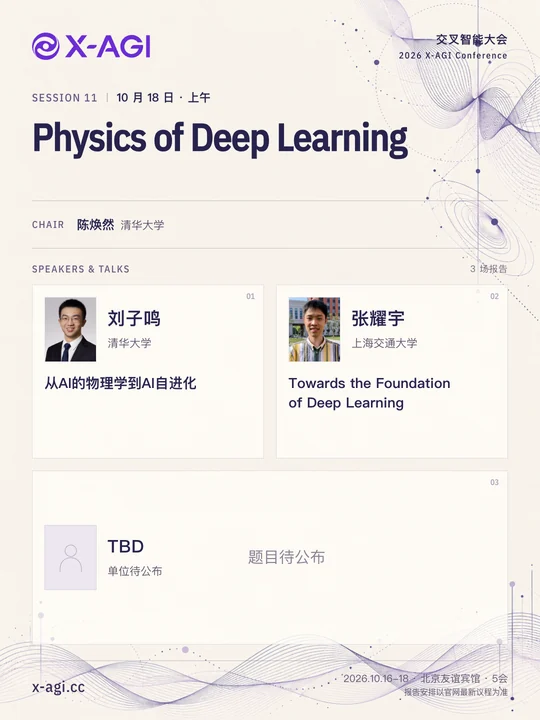
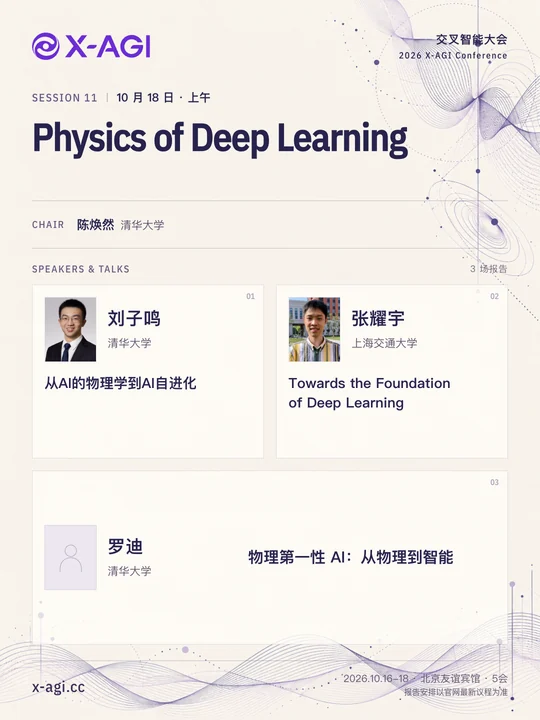
Add Luo Di talk, biography, abstract, and session poster

Changed region(s): [[0.4444, 0.7639, 0.8593, 0.7944], [0.2074, 0.7333, 0.2963, 0.825]]

diff --git a/src/data/conference2026-people.confirmed.ts b/src/data/conference2026-people.confirmed.ts
@@ -3,6 +3,21 @@ import type { Conference2026PersonSourceRecord } from './conference2026-people.g
 // Organizer-confirmed profiles and biography updates through 2026-10-09.
 // Keep this supplied copy separate from the attendee workbook snapshot.
 export const conference2026ConfirmedPeople: readonly Conference2026PersonSourceRecord[] = [
+  // Biography: https://baike.weixin.qq.com/v10001659227.htm
+  // Title and editorial abstract: organizer-supplied slide.pdf, 2026-10-16.
+  {
+    id: 'luo-di',
+    name: '罗迪',
+    aliases: ['Di Luo'],
+    roles: ['speaker'],
+    affiliation: '清华大学',
+    department: '物理系、高等研究院',
+    bio: '罗迪（Di Luo），清华大学物理系副教授、清华大学高等研究院双聘研究员，智源青年学者。曾任麻省理工学院与哈佛大学博士后、美国人工智能与基本相互作用研究所（IAIFI）Fellow，以及加州大学洛杉矶分校助理教授。他的研究聚焦人工智能与量子物理的交叉领域，既利用神经网络研究量子多体系统，也以量子理论和统计物理启发人工智能模型设计。他提出“物理第一性 AI”研究范式，探索从物理学基本原理出发理解和构建人工智能系统，并入选2025年度《麻省理工科技评论》中国区“35岁以下科技创新35人”。',
+    talkTitle: '物理第一性 AI：从物理到智能',
+    abstract: '物理规律不仅为人工智能提供应用场景，也能为模型结构、表征能力与学习机制提供设计依据。本报告围绕“物理第一性 AI”，探讨物理与人工智能的双向启发。首先，从神经网络量子态出发，介绍如何将费米反对称性与规范对称性融入网络结构，以表征和模拟复杂量子系统。其次，从自由能视角引入沃尔什度，刻画函数中不同阶数的变量交互，讨论其与多层感知机（MLP）的宽度和深度、限制玻尔兹曼机（RBM）的隐藏单元数和连接度之间的关系，以及基底选择对量子态表征的影响。最后，介绍量子理论对人工智能的启发，包括用于大语言模型高效高秩微调的量子启发张量适配（QuanTA）、语言模型的信息结构与互信息标度，以及从物理过程构建生成模型的思路。报告将据此讨论如何把物理中的对称性、复杂度与信息结构转化为人工智能模型的设计原则。',
+    hasSubmittedPortrait: false,
+    sourceOrder: -1,
+  },
   {
     id: 'liu-huabin',
     name: '刘华斌',

diff --git a/src/data/home-speakers.test.ts b/src/data/home-speakers.test.ts
@@ -10,13 +10,13 @@ const scheduledChairs = new Set(conference2026ProgramSessions.flatMap((session) 
 describe('homepage speaker lineup', () => {
   it('includes every confirmed Speaker and Chair exactly once, regardless of portrait or profile availability', () => {
     const expectedNames = new Set([...scheduledSpeakers, ...scheduledChairs].filter((name) => !['待确认', 'TBD'].includes(name)));
-    assert.equal(homeSpeakers.length, 56);
+    assert.equal(homeSpeakers.length, 57);
     assert.equal(new Set(homeSpeakers.map((speaker) => speaker.id)).size, homeSpeakers.length);
     assert.deepEqual(new Set(homeSpeakers.map((speaker) => speaker.name)), expectedNames);
     for (const speaker of homeSpeakers) {
       assert.equal(speaker.portraitSrc, conference2026PersonForName(speaker.name)?.portraitSrc);
     }
-    assert.equal(homeSpeakers.filter((speaker) => !speaker.portraitSrc).length, 3);
+    assert.equal(homeSpeakers.filter((speaker) => !speaker.portraitSrc).length, 4);
   });
 
   it('places missing portraits last, preserves order within both groups and keeps dual-role speaker links', () => {

diff --git a/src/data/conference2026-program.ts b/src/data/conference2026-program.ts
@@ -73,9 +73,9 @@ const revisedSessions = sourceSessions.map((sourceSession) => {
       { name: '周峰', affiliation: '中国人民大学' },
     ]
     : availableSpeakers;
-  // The organizer reserved a third 40-minute talk; the speaker is not confirmed yet.
+  // Organizer-confirmed October 16: Luo Di fills the reserved third 40-minute talk.
   if (session.title === 'Physics of Deep Learning' && speakers.length === 2) {
-    speakers.push({ name: 'TBD' });
+    speakers.push({ name: '罗迪', affiliation: '清华大学', talkTitle: '物理第一性 AI：从物理到智能' });
   }
   return {
     ...session,

diff --git a/src/data/conference2026.test.ts b/src/data/conference2026.test.ts
@@ -167,7 +167,7 @@ describe('conference schedule contracts', () => {
       }
     }
     assert.deepEqual(conference2026ProgramSessions[4].speakers.map((speaker) => speaker.name), ['张先轶', '李秀红', '吴晨玮']);
-    assert.deepEqual(conference2026ProgramSessions[10].speakers.map((speaker) => speaker.name), ['刘子鸣', '张耀宇', 'TBD']);
+    assert.deepEqual(conference2026ProgramSessions[10].speakers.map((speaker) => speaker.name), ['刘子鸣', '张耀宇', '罗迪']);
   });
 
   it('requires confirmation instead of inventing slots for a changed session length or speaker count', () => {

diff --git a/src/data/conference2026-people.test.ts b/src/data/conference2026-people.test.ts
@@ -89,7 +89,7 @@ describe('2026 public Chair and Speaker profiles', () => {
     const person = conference2026PersonForName('田润泽');
     assert.equal(person?.portraitStatus, 'missing');
     assert.equal(person?.portraitSrc, undefined);
-    assert.equal(conference2026People.filter((candidate) => !candidate.portraitSrc).length, 4);
+    assert.equal(conference2026People.filter((candidate) => !candidate.portraitSrc).length, 5);
     for (const name of ['谢天', '祝武']) {
       const candidate = conference2026PersonForName(name);
       assert.equal(candidate?.portraitStatus, 'missing');
